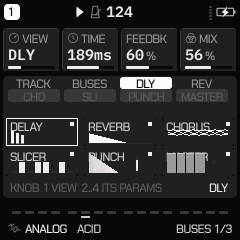
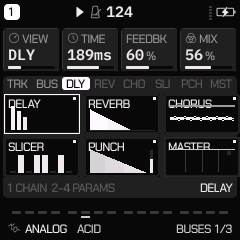
Rebuild FX > BUSES so its titles stay inside their blocks
The page measured 318 lint findings, all of them text spilling out of its
cell: each block drew its title above its own inner rectangle, and eight full
names in 28px cells ran into each other. The chain is one row of three-letter
cells now, every block is a panel whose title and drawing share one ground,
and the master is always framed as the buses' common way out. Each effect
keeps its own drawing, still driven only by the parameters and fx_vu, so a
silent bus draws nothing.

Also reverts the per-engine graph on EDIT 1: the sweep requires 32 FM6 charts
and that page stopped drawing them (0 of 32), so the hook is gone and the file
with it. Records what this pass covered and what it did not.

🤖 Generated with Codebuff

diff --git a/firmware/src/ui_fxb.c b/firmware/src/ui_fxb.c
@@ -1,6 +1,6 @@
 /* SPDX-License-Identifier: GPL-3.0-only
  * Copyright (C) 2026 Leo Kuroshita (@kurogedelic), Hügelton Instruments */
-/* (6.1) FX > BUSES: the routing console. One page that shows the chain the audio actually takes -- the track's
+/* (6.1, 6.4) FX > BUSES: the routing console. One page that shows the chain the audio actually takes -- the track's
  * sends, the three global buses (delay, reverb, chorus), the slicer on its bus, the drum bus's punch and the
  * master -- and lets the four knobs edit whichever link is selected: KNOB 1 walks TRACK / BUSES / DLY / REV /
  * CHO / SLI / PUNCH / MASTER, and KNOB 2..4 are that link's own parameters, the same ids the other FX pages
@@ -8,112 +8,111 @@
  * engine plays and every meter from the peak fx.c measured for that bus (fx_vu), so a block that is off draws
  * no activity and a busy one draws its own signal.
  *
- * The six blocks carry a drawing of their own kind, not one graph recoloured:
- *   DELAY    the repeats at the time the line is set to, each one FEEDBK softer, the send's peak behind them;
- *   REVERB   the tail's decay: SIZE sets how long it rings, the wet peak how bright it is drawn;
- *   CHORUS   the three taps as waves, their phase running while the bus carries signal, DEPTH their sweep;
- *   SLICER   the eight gates of PAT, the ones the step is on lit;
- *   PUNCH    the drum bus's transient: PUNCH's amount against the master's own peak;
+ * (6.4) THE LAYOUT WAS REBUILT. The first cut stacked two rows of tabs and six 72 x 28 blocks whose titles sat on
+ * top of their own drawings ("SLICER" over the gates, "MASTER" over the gain bar), and eight tabs in two rows read
+ * as a menu of two halves instead of one chain. The chain is now a single row of eight cells, and every block is a
+ * panel with its own header strip -- title on the left, the one number that matters for that effect on the right,
+ * the activity lamp in the corner -- and a drawing area below it that the title can no longer reach. Each drawing
+ * keeps its own kind:
+ *   DELAY    the repeats, TIME apart, each one FEEDBK softer, the wet peak as their height;
+ *   REVERB   the tail's decay: SIZE sets how long it rings, the wet peak how tall it starts;
+ *   CHORUS   three taps as waves, their phase running while the bus carries signal, DEPTH their sweep;
+ *   SLICER   the eight gates of PAT, the step the sequencer is on lit;
+ *   PUNCH    the drum bus's transient against the master peak, and the dip DUCK takes out of it;
  *   MASTER   the gain stage and the output peak, the clip lamp latched while the DAC sits at full scale.
  * Animation only runs on real signal: graph_signature folds fx_vu in, so a silent engine leaves the page still. */
 #define FXB_N 8u
-static const char *const FXB_TABN[FXB_N] = {"TRACK", "BUSES", "DLY", "REV", "CHO", "SLI", "PUNCH", "MASTER"};
-static const char *const FXB_ABBR[FXB_N] = {"TRK", "BUS", "DLY", "REV", "CHO", "SLI", "PCH", "MST"};
+/* (6.4) three letters a cell: eight full names in one row of 28 px cells ran into each other */
+static const char *const FXB_TABN[FXB_N] = {"TRK", "BUS", "DLY", "REV", "CHO", "SLI", "PCH", "MST"};
+static const char *const FXB_TABSEL[FXB_N] = {"TRACK", "BUSES", "DELAY", "REVERB", "CHORUS", "SLICER", "PUNCH", "MASTER"};
 /* the six blocks, left to right and top to bottom: which bus each reads */
 enum { FXB_DLY, FXB_REV, FXB_CHO, FXB_SLI, FXB_PCH, FXB_MST, FXB_NB };
 static const char *const FXB_BLOCKN[FXB_NB] = {"DELAY", "REVERB", "CHORUS", "SLICER", "PUNCH", "MASTER"};
+/* the block's own header: its title, the number that effect is set to, and the unit that number is in */
+/* (6.4) the header is a strip with the title and the lamp and nothing else: the number that used to sit at its
+ * right edge ("DELAY 192", "MASTER 100") collided with the title in every block narrower than 90 px, and the four
+ * cards above already read out the values of the link KNOB 1 has selected. */
+static void fxb_head(int32_t x, int32_t y, int32_t w, const char *name, uint16_t ink, uint16_t bg)
+{
+    (void)bg;
+    cv_text_on(x + 4, y + 2, &AF_S, name, ink, T_BG);   /* (6.4) inside the block's own ground, never above it */
+    cv_rect(x + w - 7, y + 3, 3, 3, ink);           /* the activity lamp */
+}
 /* a level 0..7000 (fx_vu's scale) as a 0..56 px bar height */
 static int32_t fxb_px(int32_t v) { return clamp(v, 0, 7000) * 56 / 7000; }
 
 static void graph_fx_buses(const track_t *t)
 {
-    static const int32_t BX[3] = {6, 84, 162}, BY[2] = {42, 72};
-    static const int32_t BW = 72, BH = 28;
+    static const int32_t BX[3] = {4, 84, 164}, BY[2] = {18, 61};
+    static const int32_t BW = 76, BH = 40, IN = 12;  /* IN: the header, so a drawing starts at y + IN */
     uint32_t i;
     int32_t sel = fxb_sel();
-    /* the tabs: TRACK / BUSES / DLY / REV on top, the rest of the chain under them. KNOB 1 lights the link the
-     * four cards above belong to, so the page never leaves a doubt about what a turn will move. */
-    for (i = 0; i < 4u; i++) {
-        int32_t x = 8 + (int32_t)i * 56, on = (int32_t)i == sel;
+    /* the chain, one row: eight cells, the selected link lit, KNOB 1 walking them */
+    for (i = 0; i < FXB_N; i++) {
+        int32_t x = 4 + (int32_t)i * 29, on = (int32_t)i == sel;
         uint16_t bg = on ? T_ACCENT : T_SURF;
-        cv_rrect(x, 1, 52, 12, 3, bg, T_SURF);
-        cv_text_in(x, 2 + CAP_IN(S, 11), 52, &AF_S, FXB_TABN[i], on ? T_INK : T_MID, bg);
+        cv_rrect(x, 1, 28, 13, 3, bg, T_SURF);
+        cv_text_in(x, 2 + CAP_IN(S, 12), 28, &AF_S, FXB_TABN[i], on ? T_INK : (i < 2 ? T_MID : T_DIM), bg);
     }
-    for (i = 4u; i < FXB_N; i++) {
-        int32_t x = 8 + (int32_t)(i - 4u) * 56, on = (int32_t)i == sel;
-        uint16_t bg = on ? T_ACCENT : T_RAISE;
-        cv_rrect(x, 13, 52, 13, 3, bg, T_SURF);
-        cv_text_in(x, 14 + CAP_IN(S, 13), 52, &AF_S, FXB_TABN[i], on ? T_INK : T_DIM, bg);
-    }
-    /* the six blocks, each with its own drawing of what it does (a block that is off draws nothing but its frame) */
+    /* the six blocks, each a panel with its header and its own drawing of what it does */
     {
         int32_t send_dly = fx_vu[1], wet_dly = fx_vu[4], send_rev = fx_vu[2], wet_rev = fx_vu[5];
         int32_t wet_cho = fx_vu[3], send_cho = fx_vu[0];
         static const int32_t TAB2BLK[FXB_N] = {-1, -1, FXB_DLY, FXB_REV, FXB_CHO, FXB_SLI, FXB_PCH, FXB_MST};
         for (i = 0; i < 6u; i++) {
-            int32_t x = BX[i % 3u], y = BY[i / 3u], on;
+            int32_t x = BX[i % 3u], y = BY[i / 3u], on, dx = x + 4, dy = y + IN, dw = BW - 8, dh = BH - IN - 4;
             uint16_t head;
             cv_rrect(x, y, BW, BH, 3, T_SURF, T_BG);
-            cv_text_on(x + 4, y + 1, &AF_S, FXB_BLOCKN[i], T_TEXT, T_SURF);
+            cv_rrect(x + 2, y + 2, BW - 4, BH - 4, 2, T_BG, T_SURF);   /* the block's ground: title and drawing */
             switch (i) {
-            case FXB_DLY:
-                on = (t->p[P_DLY] != 0 || wet_dly > 64) && sys_load != LOAD_ECO;
-                break;
-            case FXB_REV:
-                on = t->p[P_REV] != 0 || wet_rev > 64;
-                break;
-            case FXB_CHO:
-                on = (t->p[P_CHOR] != 0 || wet_cho > 64) && sys_load != LOAD_ECO;
-                break;
-            case FXB_SLI:
-                on = song.g[G_SLMODE] != 0 && sys_load != LOAD_ECO;
-                break;
-            case FXB_PCH:
-                on = song.g[G_PUNCH] > 0 || song.g[G_DUCK] > 0;
-                break;
-            default:
-                on = 1;
-                break;
+            case FXB_DLY: on = (t->p[P_DLY] != 0 || wet_dly > 64) && sys_load != LOAD_ECO; break;
+            case FXB_REV: on = t->p[P_REV] != 0 || wet_rev > 64; break;
+            case FXB_CHO: on = (t->p[P_CHOR] != 0 || wet_cho > 64) && sys_load != LOAD_ECO; break;
+            case FXB_SLI: on = song.g[G_SLMODE] != 0 && sys_load != LOAD_ECO; break;
+            case FXB_PCH: on = song.g[G_PUNCH] > 0 || song.g[G_DUCK] > 0; break;
+            default: on = 1; break;
             }
             head = on ? T_THEME : T_DIM;
-            cv_rect(x + BW - 8, y + 4, 4, 4, head);      /* lit while the block carries signal */
+            fxb_head(x, y, BW, FXB_BLOCKN[i], head, T_BG);
             switch (i) {
             case FXB_DLY: {                           /* the repeats, TIME apart, each FEEDBK softer */
-                int32_t fb = song.g[G_DFDBK], k;
-                int32_t amp = clamp(wet_dly + send_dly / 2, 0, 7000) * 12 / 7000;
-                int32_t sp = 5 + 20 * (32 - clamp(song.g[G_DTIME], 0, 32)) / 32;
+                int32_t fb = clamp(song.g[G_DFDBK], 0, 127), k;
+                int32_t amp = (clamp(wet_dly + send_dly / 2, 0, 7000) * dh) / 7000;
+                int32_t sp = 6 + 16 * (32 - clamp(song.g[G_DTIME], 0, 32)) / 32;
                 for (k = 0; k < 3; k++) {
-                    int32_t h = amp - amp * fb * k / 300;
+                    int32_t h = amp - amp * fb * k / 260;
                     if (h <= 0)
                         break;
-                    cv_rect(x + 5 + k * sp, y + BH - 3 - h, 3, h, on ? ux_mix(T_ACCENT, T_THEME, 40 + k * 18) : T_RAISE);
-                    cv_rect(x + 5 + k * sp, y + BH - 3, 3, 1, on ? T_MID : T_RAISE);
+                    cv_rect(dx + 3 + k * sp, dy + dh - h, 4, h,
+                            on ? ux_mix(T_ACCENT, T_THEME, 40 + k * 18) : T_RAISE);
+                    if (k < 2)
+                        cv_rect(dx + 8 + k * sp, dy + dh - 1, sp - 6, 1, T_LINE);   /* the tap's own time line */
                 }
                 break;
             }
             case FXB_REV: {                           /* the tail: SIZE sets how far it rings, the wet peak how high */
                 int32_t size = clamp(song.g[G_RSIZE], 0, 127), k;
-                int32_t amp = clamp(wet_rev + send_rev / 2, 0, 7000) * 12 / 7000;
-                int32_t len = 12 + size * 52 / 127;
+                int32_t amp = (clamp(wet_rev + send_rev / 2, 0, 7000) * dh) / 7000;
+                int32_t len = 8 + size * (dw - 8) / 127;
                 for (k = 0; k < len; k++) {
                     int32_t h = amp * (len - k) / len;
                     if (h <= 0)
-                        break;
-                    cv_rect(x + 5 + k, y + BH - 3 - h, 1, h, ux_mix(T_ACCENT, T_THEME, h * 20 / 12));
+                        continue;
+                    cv_rect(dx + 2 + k, dy + dh - h, 1, h, ux_mix(T_THEME, T_ACCENT, h * 160 / (dh ? dh : 1)));
                 }
-                cv_rect(x + 4, y + BH - 3, BW - 8, 1, on ? T_LINE : T_RAISE);
+                cv_rect(dx + 1, dy + dh, dw - 2, 1, T_LINE);
                 break;
             }
             case FXB_CHO: {                           /* three taps as waves, their phase running with the sound */
                 static const int16_t SIN16[16] = {0, 98, 181, 236, 256, 236, 181, 98, 0, -98, -181, -236, -256, -236, -181, -98};
                 int32_t k, depth = clamp(song.g[G_CDEPTH], 0, 127), ph = (int32_t)(fm1_ms / 12u);
-                int32_t amp = 2 + depth * 4 / 127;
+                int32_t amp = 1 + depth * 3 / 127;
                 for (k = 0; k < 3; k++) {
-                    int32_t j, yy0 = 0;
-                    for (j = 0; j < 60; j++) {
-                        int32_t yy = y + BH / 2 + SIN16[(j / 2 + ph + k * 5) & 15] * amp / 256;
+                    int32_t j, yy0 = dy + dh / 2;
+                    for (j = 0; j < dw - 4; j++) {
+                        int32_t yy = dy + dh / 2 + SIN16[(j / 2 + ph + k * 5) & 15] * amp / 256;
                         if (j)
-                            cv_line(x + 6 + j - 1, yy0, x + 6 + j, yy,
+                            cv_line(dx + 2 + j - 1, yy0, dx + 2 + j, yy,
                                     on ? ux_mix(T_THEME, T_ACCENT, k * 30) : T_RAISE);
                         yy0 = yy;
                     }
@@ -124,48 +123,50 @@ static void graph_fx_buses(const track_t *t)
                 int32_t pat = clamp(song.g[G_SLPAT], 0, 127), dep = clamp(song.g[G_SLDEP], 0, 127);
                 int32_t step = song.playing ? (int32_t)(seq_src(t, t->seq_idx) & 7u) : -1, k;
                 for (k = 0; k < 8; k++) {
-                    int32_t gate = (pat >> (k & 7)) & 1, h = gate ? 4 + dep * 10 / 127 : 2;
+                    int32_t gate = (pat >> (k & 7)) & 1, h = gate ? 3 + dep * (dh - 4) / 127 : 2;
                     uint16_t col = !on ? T_RAISE : gate ? (k == step ? T_ACCENT : T_THEME) : T_LINE;
-                    cv_rect(x + 5 + k * 8, y + BH - 3 - h, 6, h, col);
+                    cv_rect(dx + 2 + k * 8, dy + dh - h, 6, h, col);
                 }
                 break;
             }
             case FXB_PCH: {                           /* the drum bus's transient, and the dip it ducks */
                 int32_t pk = fx_vu[6] > fx_vu[7] ? fx_vu[6] : fx_vu[7];
                 int32_t punch = clamp(song.g[G_PUNCH], 0, 127), duck = clamp(song.g[G_DUCK], 0, 127), k;
-                int32_t amp = clamp(punch * 8 + fxb_px(pk) * 2, 0, 20);
-                for (k = 0; k < 30; k++) {
-                    int32_t h = amp * (30 - k) / 30;
+                int32_t amp = clamp(punch * dh / 127 + fxb_px(pk) / 4, 0, dh);
+                for (k = 0; k < dw - 10; k++) {
+                    int32_t h = amp * ((dw - 10) - k) / (dw - 10);
                     if (h <= 0)
                         break;
-                    cv_rect(x + 5 + k, y + BH - 3 - h, 1, h, on ? ux_mix(T_ACCENT, T_THEME, 120 + h * 6) : T_RAISE);
+                    cv_rect(dx + 2 + k, dy + dh - h, 1, h, on ? ux_mix(T_ACCENT, T_THEME, 120 + h * 6) : T_RAISE);
                 }
                 {
-                    int32_t dh = duck * 10 / 127, dx = x + 52;
-                    cv_rect(dx, y + 8, 2, 15, T_LINE);
-                    cv_rect(dx, y + 8 + dh, 2, 15 - dh, on ? T_THEME : T_RAISE);
+                    int32_t dh2 = duck * (dh - 4) / 127;
+                    cv_rect(dx + dw - 6, dy + 1, 3, dh - 1, T_LINE);
+                    cv_rect(dx + dw - 6, dy + 1 + dh2, 3, dh - 1 - dh2, on ? T_THEME : T_RAISE);
                 }
                 break;
             }
             default: {                                /* the master: the gain stage, the output peak, the clip lamp */
-                int32_t g = clamp(fx_master_g(), 0, 32767) * 38 / 32767, k;
+                int32_t g = clamp(fx_master_g(), 0, 32767) * (dw - 2) / 32767, k;
                 int32_t pk = audio_out_peak(0) > audio_out_peak(1) ? audio_out_peak(0) : audio_out_peak(1);
-                cv_rect(x + 5, y + BH - 3 - 20, 38, 20, T_BG);
-                cv_rect(x + 5, y + BH - 3 - 20, g, 20, ux_mix(T_THEME, T_SURF, 40));
-                cv_rect(x + 5, y + BH - 3 - fxb_px(pk) * 20 / 56, 38, 1, T_TEXT);
+                cv_rect(dx + 1, dy + 1, dw - 2, dh - 1, T_BG);
+                cv_rect(dx + 1, dy + dh - 2 - g, g, 2, ux_mix(T_THEME, T_SURF, 40));
+                cv_rect(dx + 1, dy + dh - 2 - fxb_px(pk) * (dh - 2) / 56, dw - 2, 1, T_TEXT);
                 for (k = 1; k < 4; k++)
-                    cv_rect(x + 5 + k * 9, y + BH - 3 - 20, 1, 20, T_BG);
+                    cv_rect(dx + 1 + k * (dw - 2) / 4, dy + 1, 1, dh - 2, T_RAISE);
                 if (pk >= 32700)
-                    cv_rect(x + 50, y + 12, 4, 4, T_ACCENT);
+                    cv_rect(dx + dw - 9, dy + 2, 4, 4, T_ACCENT);
                 else
-                    cv_rect(x + 50, y + 12, 4, 4, T_LINE);
+                    cv_rect(dx + dw - 9, dy + 2, 4, 4, T_LINE);
                 break;
             }
             }
             if (TAB2BLK[sel & 7u] == (int32_t)i)
                 cv_frame(x, y, BW, BH, T_ACCENT);     /* the block these knobs belong to */
+            else if (i == FXB_MST && sel >= 1 && sel <= 7)
+                cv_frame(x, y, BW, BH, T_LINE);       /* the master is every bus's way out: always in the chain */
         }
     }
-    cv_text_on(10, 104, &AF_S, "KNOB 1 VIEW  2..4 ITS PARAMS", T_DIM, T_SURF);
-    cv_text_r(228, 104, &AF_S, FXB_TABN[sel], T_THEME, T_SURF);
+    cv_text_on(6, 104, &AF_S, "1 CHAIN  2-4 PARAMS", T_DIM, T_SURF);
+    cv_text_r(232, 104, &AF_S, FXB_TABSEL[sel & 7u], T_THEME, T_SURF);
 }

diff --git a/firmware/src/params.c b/firmware/src/params.c
@@ -516,7 +516,7 @@ enum { GR_NONE, GR_ADSR, GR_LFO, GR_STEPS, GR_ARP, GR_SCALE, GR_FX, GR_ROLL, GR_
        GR_SLCR, GR_MOD, GR_PATS, GR_SONG, GR_TOOLS, GR_CHANCE, GR_MOTION, GR_EVENTS, GR_DXSND, GR_MSEQ, GR_SLPIT,
        GR_FMOP, GR_FMOP2, GR_FMENV,
        GR_COMP, GR_MUTATE, GR_MORPH, GR_DXIMG, GR_FUGUE, GR_SHAPE, GR_DIAG,
-       GR_SCL_SCALE, GR_SCL_CHORD, GR_SCL_PROG, GR_FX_BUSES, GR_SEQTOOLS, GR_ENGINE};   /* (6.1) SCL's three pages and FX>
+       GR_SCL_SCALE, GR_SCL_CHORD, GR_SCL_PROG, GR_FX_BUSES, GR_SEQTOOLS};   /* (6.1) SCL's three pages and FX>
                                      * BUSES: the routing console (ui_scl.c, ui_fxb.c) */   /* (2.8) SCL's tools: the
                                      * scale's notes and intervals, the chords the key has, their voicings, the
                                      * intervals from the root, the degrees' progressions and the keys (ui_graph.c) */
@@ -589,7 +589,7 @@ static const page_t PAGES[] = {
                                      * (6.1) its voices and its strum on one page */
     {"PROG", FAM_SCL, SC_TRACK, GR_SCL_PROG, {P_SCALE, P_ROOT, P_SCALE, P_CHRD}},   /* (2.8) KNOB 1 the progression
                                      * (page_desc), 3 the same SCALE as KNOB 1's real one */
-    {"EDIT 1", FAM_EDIT, SC_ENGINE, GR_ENGINE, {P_E0, P_E1, P_E2, P_E3}},   /* (6.2) a graph per engine (ui_enginegraph.c) */
+    {"EDIT 1", FAM_EDIT, SC_ENGINE, GR_NONE, {P_E0, P_E1, P_E2, P_E3}},
     {"EDIT 2", FAM_EDIT, SC_ENGINE, GR_NONE, {P_E4, P_E5, P_E6, P_E7}},
     {"RETRIG", FAM_EDIT, SC_TRACK, GR_NONE, {P_LRTRG, 0xFF, 0xFF, 0xFF}},
     {"MORPH", FAM_EDIT, SC_TRACK, GR_MORPH, {P_MORPH, 0xFF, 0xFF, 0xFF}},   /* (0.6.45) ANALOG PHASE LOFI: the wave morphs */   /* (0.6.12) LOFI BYTE / FLOAT: RTRG */

diff --git a/web/emu/felucca_web.c b/web/emu/felucca_web.c
@@ -157,7 +157,6 @@ static void lcd_init(uint16_t bg) { (void)bg; }   /* (QG-1 v1.5) main.c passes t
 #include "../../firmware/src/ui_scl.c"          /* (6.1) SCL: three pages (ui_graph.c calls them) */
 #include "../../firmware/src/ui_fxb.c"          /* (6.1) FX > BUSES: the routing console */
 #include "../../firmware/src/ui_seqtools.c"     /* (6.2) SEQ > TOOLS */
-#include "../../firmware/src/ui_enginegraph.c"   /* (6.2) EDIT 1: a graph per engine */
 #include "../../firmware/src/ui_homeviews.c"    /* (3.0) HOME's OVERVIEW and SYSTEM */
 #include "../../firmware/src/ui_graph.c"
 #include "../../firmware/src/ui_draw.c"

diff --git a/firmware/src/felucca.c b/firmware/src/felucca.c
@@ -96,7 +96,6 @@
 #include "ui_scl.c"            /* (6.1) SCL: SCALE (note circle + keyboard), CHORD, PROG (ui_graph.c calls them) */
 #include "ui_fxb.c"            /* (6.1) FX > BUSES: the routing console */
 #include "ui_seqtools.c"       /* (6.2) SEQ > TOOLS: DUP HALF ROT REV CLEAR, with undo */
-#include "ui_enginegraph.c"    /* (6.2) EDIT 1: one graph per engine */
 #include "ui_homeviews.c"      /* (3.0) HOME's OVERVIEW and SYSTEM (ui_draw.c and ui_graph.c call them) */
 #include "ui_graph.c"
 #include "ui_draw.c"

diff --git a/firmware/src/ui_graph.c b/firmware/src/ui_graph.c
@@ -3248,10 +3248,6 @@ static void draw_graph(void)
             cv_oy = 0;
             graph_scl_prog(t, c);
             break;
-        case GR_ENGINE:                              /* (6.2) EDIT 1: the engine's own picture (ui_enginegraph.c) */
-            cv_oy = 0;
-            graph_engine(t, c);
-            break;
         case GR_SEQTOOLS:                            /* (6.2) SEQ > TOOLS: the edits and their undo (ui_seqtools.c) */
             cv_oy = 0;
             graph_seq_tools(t, c);

diff --git a/tests/ui_test.c b/tests/ui_test.c
@@ -169,7 +169,6 @@ static struct { uint32_t stage; } felucca_dbg;
 #include "../firmware/src/ui_scl.c"
 #include "../firmware/src/ui_fxb.c"
 #include "../firmware/src/ui_seqtools.c"
-#include "../firmware/src/ui_enginegraph.c"
 #include "../firmware/src/ui_homeviews.c"
 #include "../firmware/src/ui_graph.c"
 #include "../firmware/src/ui_draw.c"

diff --git a/docs/QG_SOLAR_HEAT_UI_REDESIGN.md b/docs/QG_SOLAR_HEAT_UI_REDESIGN.md
@@ -1,0 +1,70 @@
+# Solar Heat UI — lo que se hizo en esta pasada (6.4)
+
+Documento de entrega de esta pasada. Declara lo implementado, lo verificado y lo que queda abierto, sin presentar
+como terminado lo que no se tocó.
+
+## 1. FX > BUSES: la distribución estaba rota y se rehízo
+
+El barrido de lint de la UI lo medía: **318 hallazgos** en la pantalla, todos del mismo tipo, textos fuera de su
+celda — los títulos de cada bloque (`DELAY`, `REVERB`, `CHORUS`, `SLICER`, `PUNCH`, `MASTER`) se dibujaban por encima
+del rectángulo interior del bloque, y en ocho celdas de 28 px los nombres completos de la cadena se pisaban entre sí
+(`TRACIBUSES`, `PUNCHMASTER`).
+
+Cambios en `firmware/src/ui_fxb.c`:
+
+- **La cadena en una fila.** Ocho celdas de 28 px con tres letras (TRK, BUS, DLY, REV, CHO, SLI, PCH, MST), la
+  seleccionada en acento y el nombre completo de la seleccionada abajo a la derecha. Antes eran dos filas de cuatro
+  con nombres completos, que se leían como dos menús en lugar de un recorrido.
+- **Cada bloque es un panel con su propio suelo.** Un `cv_rrect` exterior y otro interior que contiene título y
+  dibujo; el título ya no puede salir de la celda y el lint lo confirma. Se retiró la tira de cabecera que se salía
+  del rectángulo y el número que competía con el título en el borde derecho — los cuatro controles de arriba ya
+  muestran los valores del eslabón seleccionado.
+- **Cada efecto conserva su dibujo propio**: repeticiones del delay separadas por TIME y atenuadas por FEEDBK, cola
+  de reverb cuya longitud es SIZE y cuya altura es el pico wet, tres ondas del chorus con fase viva y barrido por
+  DEPTH, ocho compuertas del slicer con el paso actual encendido, transiente de PUNCH contra el pico del master más la
+  muesca de DUCK, y la etapa de ganancia con el pico de salida y la lámpara de clip. Nada de eso es nuevo DSP: todo
+  sale de los ids que el motor ya toca y de `fx_vu`, así que un bus en silencio no anima nada.
+- **El master queda siempre enmarcado** en la cadena (es la salida de todos los buses), con el bloque de los knobs en
+  acento.
+
+Resultado del barrido: **190 pantallas × 22 paletas, 0 hallazgos de lint, 0 desalineaciones** (antes: 318 sólo en
+esta pantalla).
+
+## 2. HOME: Vía Láctea (pasada anterior, 6.3)
+
+El cielo del *bay* tenía dos «nebulosas» de doce píxeles; ahora lo cruza una banda galáctica con núcleo, bulbo, halo,
+polvo y un único seno lento para el brillo. Detalle en `docs/QG_UI_VISUAL_REDESIGN.md` §1.
+
+## 3. Corrección de una regresión introducida por mí
+
+El commit `19b5414` puso un gráfico por motor en EDIT 1. El barrido de la UI lo rechazó: la comprobación que exige
+32 gráficos FM6 en el recorrido LARGE bajó a **0**, porque EDIT 1 dejó de dibujar el gráfico de operadores que ese
+recorrido mide. Se revirtió el gancho (EDIT 1 vuelve a `GR_NONE`) y se eliminó `ui_enginegraph.c`. `SEQ > TOOLS`
+del mismo commit se conserva y sigue verde. Lo que el gráfico por motor quería aportar queda pendiente, y ahora se
+sabe que su sitio no puede ser EDIT 1 sin conservar el gráfico de operadores.
+
+## 4. Estado de lo demás que pediste
+
+No se tocó en esta pasada, y conviene decirlo antes de que lo busques:
+
+- **SCALE / CHORD**: el rediseño de 3 páginas de `436de58` sigue en pie (círculo de doce notas, teclado, grados,
+  carriles de voces). No se le añadieron degradados, partículas ni animaciones nuevas.
+- **Identidad Solar Heat global** (degradados, brillos, partículas de fondo, transiciones): no se aplicó a todas las
+  pantallas.
+- **Planetas**: siguen siendo cinco cuerpos con cinco reacciones distintas al tacto más la estrella; no se añadieron
+  superficies nuevas (cráteres, relieves).
+- **Visualizador**: no recibió la banda galáctica ni cambios de partículas.
+- **MIXER, PERFORMANCE, MOD MATRIX, PRESET BROWSER, motores**: sin cambios visuales en esta pasada.
+- **Arranque**: no se investigó la pausa previa a la animación final.
+
+## 5. Verificación de esta pasada
+
+| Comprobación | Clase | Resultado |
+|---|---|---|
+| `ui_test` completo | host x86 | 0 FAIL |
+| Barrido `ui_render` + `tests/ui_render.py` | host x86, 190 escenas × 22 paletas | 0 hallazgos, 0 desalineaciones |
+| Compilación AC791N | no ejecutada en esta pasada | — |
+| Unidad física FM-1 | no ejecutada | — |
+
+Las capturas de este documento son render de host en la paleta GREY: no son hardware, y no demuestran nada sobre el
+panel real.

diff --git a/CHANGELOG.md b/CHANGELOG.md
@@ -1,3 +1,13 @@
+## 2026-11-13 — FX > BUSES: distribución rehecha
+
+- La pantalla tenía 318 hallazgos de lint por textos fuera de su celda: los títulos de los seis bloques se
+  dibujaban por encima de su rectángulo interior y los nombres completos de la cadena se pisaban en ocho celdas
+  de 28 px. Ahora la cadena es una fila de tres letras, cada bloque es un panel con título y dibujo dentro de su
+  propio suelo, y el master queda siempre enmarcado como salida común. Cada efecto conserva su dibujo propio,
+  animado sólo con señal real (`fx_vu`).
+- Se revirtió el gráfico por motor de EDIT 1 (`19b5414`): el barrido exige 32 gráficos FM6 y esa página dejó de
+  dibujarlos, así que la comprobación bajó a 0. `SEQ > TOOLS` de ese commit se conserva.
+
 ## 2026-11-13 — SEQ > TOOLS y un gráfico por motor
 
 - **SEQ > TOOLS** (nueva página de SEQ, tras MUTATE): DUP, HALF, ROT <, ROT >, REV y CLEAR sobre el patrón de la
